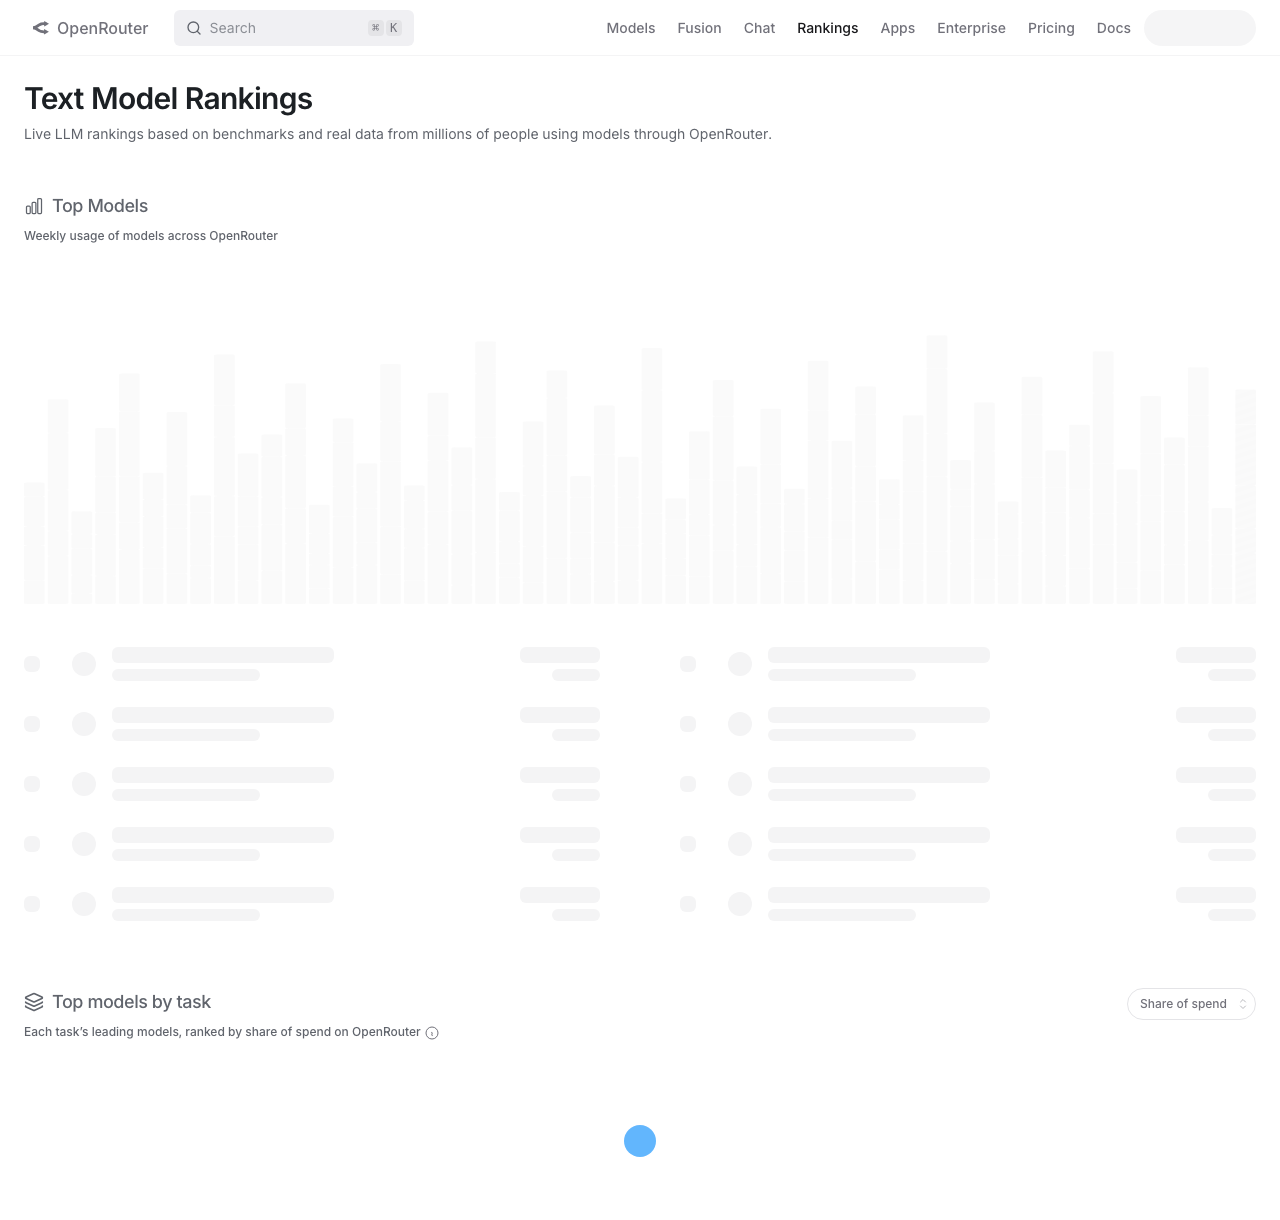
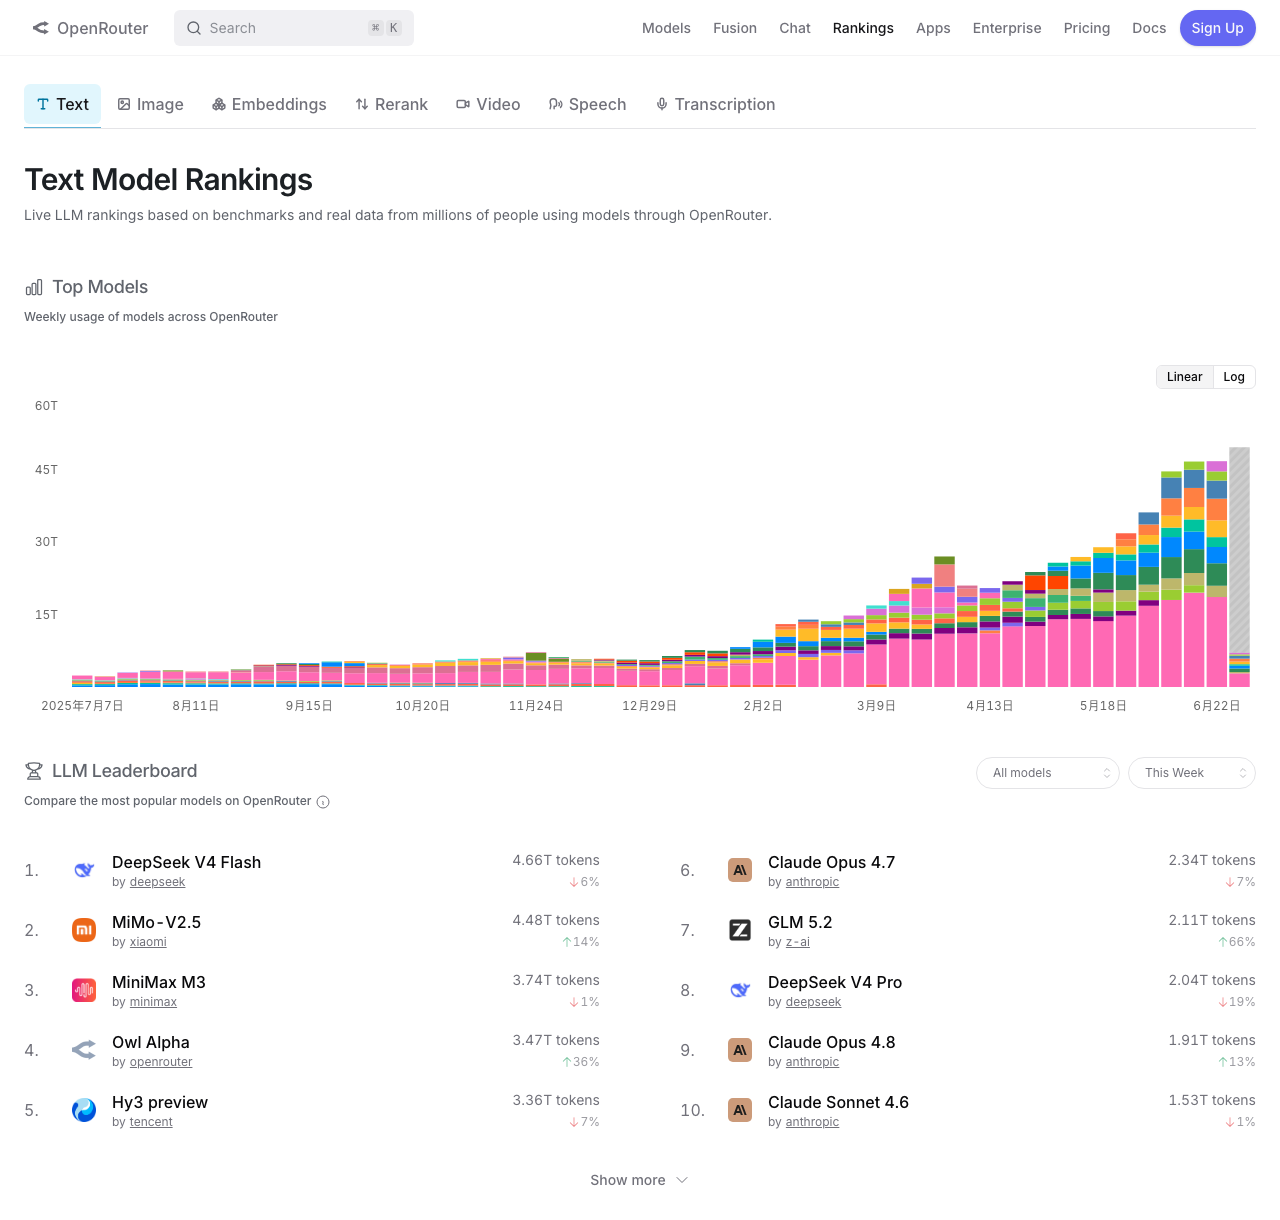
Update OpenRouter snapshot 2026-06-30T00:35:02Z

diff --git a/latest.md b/latest.md
@@ -1,6 +1,6 @@
 # OpenRouter Rankings Snapshot
 
-Generated at: 2026-06-28T13:24:03Z
+Generated at: 2026-06-30T00:35:02Z
 
 Source: https://openrouter.ai/rankings
 